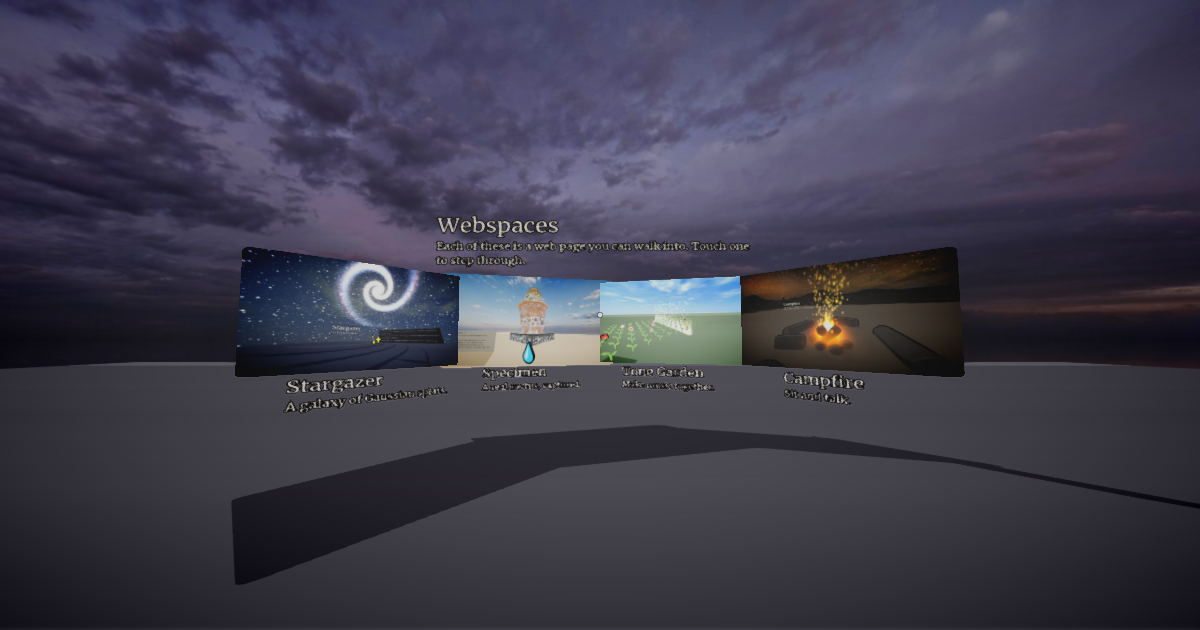
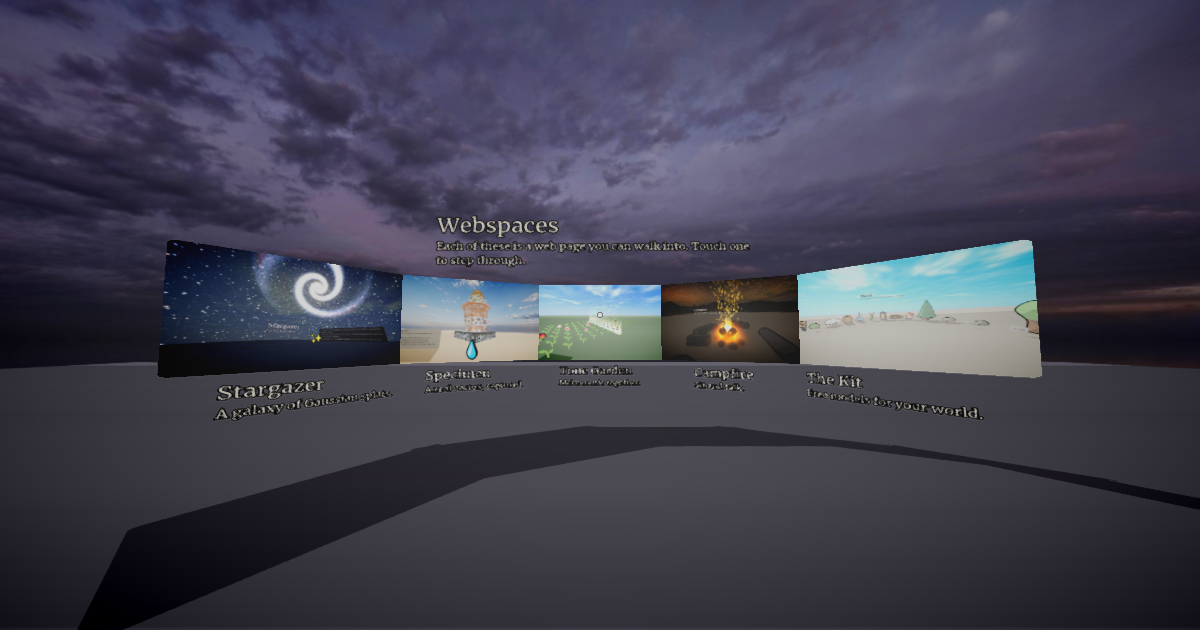
Lobby: a fifth door, to the Kit showroom
Claude-Session: https://claude.ai/code/session_019u2gxT8nfBZqM93ZJPRw4f

diff --git a/lobby/index.html b/lobby/index.html
@@ -27,22 +27,23 @@
 </head>
 <body>
 <label id="welcome" style="color: #f4ece0; background-color: transparent; -webkit-text-stroke-color: #120d1c; font-family: serif; transform: translate3d(0cm, 440cm, -520cm) scale3d(2.4, 2.4, 2.4)"><h1>Webspaces</h1><p>Each of these is a web page you can walk into. Touch one to step through.</p></label>
-<img id="door-stargazer" src="../stargazer/preview.png" style="transform: translate3d(-357cm, 270cm, -349cm) rotateY(0.890rad) scale3d(3.2, 3.2, 3.2)">
-<label id="title-stargazer" style="color: #f4ece0; background-color: transparent; -webkit-text-stroke-color: #120d1c; font-family: serif; transform: translate3d(-343cm, 160cm, -338cm) rotateY(0.890rad) scale3d(1.7, 1.7, 1.7)"><h2>Stargazer</h2><p>A galaxy of Gaussian splats.</p></label>
-<img id="door-specimen" src="../specimen/preview.png" style="transform: translate3d(-134cm, 270cm, -500cm) rotateY(0.297rad) scale3d(3.2, 3.2, 3.2)">
-<label id="title-specimen" style="color: #f4ece0; background-color: transparent; -webkit-text-stroke-color: #120d1c; font-family: serif; transform: translate3d(-129cm, 160cm, -482cm) rotateY(0.297rad) scale3d(1.7, 1.7, 1.7)"><h2>Specimen</h2><p>A real cactus, captured.</p></label>
-<img id="door-tonegarden" src="../tonegarden/preview.png" style="transform: translate3d(134cm, 270cm, -500cm) rotateY(-0.297rad) scale3d(3.2, 3.2, 3.2)">
-<label id="title-tonegarden" style="color: #f4ece0; background-color: transparent; -webkit-text-stroke-color: #120d1c; font-family: serif; transform: translate3d(129cm, 160cm, -482cm) rotateY(-0.297rad) scale3d(1.7, 1.7, 1.7)"><h2>Tone Garden</h2><p>Make music together.</p></label>
-<img id="door-campfire" src="../campfire/preview.png" style="transform: translate3d(357cm, 270cm, -349cm) rotateY(-0.890rad) scale3d(3.2, 3.2, 3.2)">
-<label id="title-campfire" style="color: #f4ece0; background-color: transparent; -webkit-text-stroke-color: #120d1c; font-family: serif; transform: translate3d(343cm, 160cm, -338cm) rotateY(-0.890rad) scale3d(1.7, 1.7, 1.7)"><h2>Campfire</h2><p>Sit and talk.</p></label>
+<img id="door-stargazer" data-href="../stargazer/" src="../stargazer/preview.png" style="transform: translate3d(-416cm, 270cm, -300cm) rotateY(1.047rad) scale3d(3, 3, 3)">
+<label id="title-stargazer" style="color: #f4ece0; background-color: transparent; -webkit-text-stroke-color: #120d1c; font-family: serif; transform: translate3d(-399cm, 160cm, -290cm) rotateY(1.047rad) scale3d(1.6, 1.6, 1.6)"><h2>Stargazer</h2><p>A galaxy of Gaussian splats.</p></label>
+<img id="door-specimen" data-href="../specimen/" src="../specimen/preview.png" style="transform: translate3d(-240cm, 270cm, -476cm) rotateY(0.524rad) scale3d(3, 3, 3)">
+<label id="title-specimen" style="color: #f4ece0; background-color: transparent; -webkit-text-stroke-color: #120d1c; font-family: serif; transform: translate3d(-230cm, 160cm, -459cm) rotateY(0.524rad) scale3d(1.6, 1.6, 1.6)"><h2>Specimen</h2><p>A real cactus, captured.</p></label>
+<img id="door-tonegarden" data-href="../tonegarden/" src="../tonegarden/preview.png" style="transform: translate3d(0cm, 270cm, -540cm) rotateY(-0.000rad) scale3d(3, 3, 3)">
+<label id="title-tonegarden" style="color: #f4ece0; background-color: transparent; -webkit-text-stroke-color: #120d1c; font-family: serif; transform: translate3d(0cm, 160cm, -521cm) rotateY(-0.000rad) scale3d(1.6, 1.6, 1.6)"><h2>Tone Garden</h2><p>Make music together.</p></label>
+<img id="door-campfire" data-href="../campfire/" src="../campfire/preview.png" style="transform: translate3d(240cm, 270cm, -476cm) rotateY(-0.524rad) scale3d(3, 3, 3)">
+<label id="title-campfire" style="color: #f4ece0; background-color: transparent; -webkit-text-stroke-color: #120d1c; font-family: serif; transform: translate3d(230cm, 160cm, -459cm) rotateY(-0.524rad) scale3d(1.6, 1.6, 1.6)"><h2>Campfire</h2><p>Sit and talk.</p></label>
+<img id="door-kit" data-href="https://webspaces.space/kit/world.html" src="https://webspaces.space/kit/preview.png" style="transform: translate3d(416cm, 270cm, -300cm) rotateY(-1.047rad) scale3d(3, 3, 3)">
+<label id="title-kit" style="color: #f4ece0; background-color: transparent; -webkit-text-stroke-color: #120d1c; font-family: serif; transform: translate3d(399cm, 160cm, -290cm) rotateY(-1.047rad) scale3d(1.6, 1.6, 1.6)"><h2>The Kit</h2><p>Free models for your world.</p></label>
 <script type="module">
   // Each picture is a door: touching it follows the link, like clicking a link on any web page.
   await webspace.ready;
   for (const img of document.querySelectorAll("img[id^=door-]")) {
-    const slug = img.id.slice(5);
-    const base = img.style.transform;
-    img.addEventListener("click", () => (location.href = `../${slug}/`));
-    img.addEventListener("pointerenter", () => (img.style.transform = base.replace("scale3d(3.2, 3.2, 3.2)", "scale3d(3.4, 3.4, 3.4)")));
+        const base = img.style.transform;
+    img.addEventListener("click", () => (location.href = img.dataset.href));
+    img.addEventListener("pointerenter", () => (img.style.transform = base.replace("scale3d(3, 3, 3)", "scale3d(3.2, 3.2, 3.2)")));
     img.addEventListener("pointerleave", () => (img.style.transform = base));
   }
 </script>
